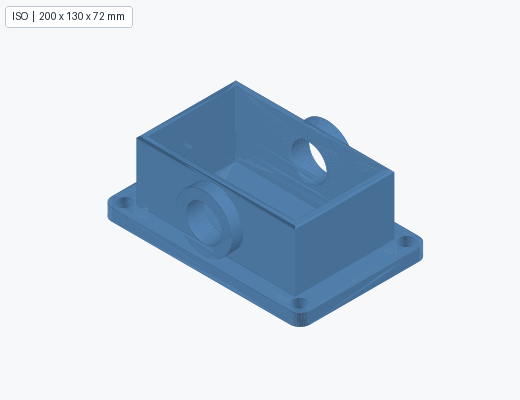
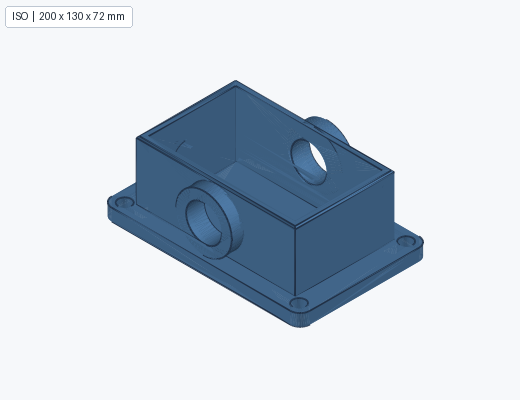
fix(v2.15): correct camera axis for edge culling + limb darkening
Visual QA after switching to a vision-capable model found the first v2.15
pass over-corrected: feature-edge ribbons were sub-pixel on big assemblies
(522 mm gearbox rims aliased into dashed ghosts) and back-facing rims still
bled through flat front plates.

Root cause of the bleed-through: _render_view used (camera_pos - center) as
the view direction for back-face culling and shading, but matplotlib places
the camera from the SAME elev/azim it hands view_init, where azim=0 is the
+X axis (not -Y as the nominal vector implied). Verified empirically with an
occlusion probe across three angles.

- view_dir now derived from elev/azim so culling and limb darkening use the
  real camera axis; far-side bearing rims are culled outright instead of
  relying on the toward-camera offset
- resolution-aware ribbon stroke (~1.7 px at image size) so rims read solid
- limb darkening: grazing surfaces (bore walls seen through the shaft/bore
  annular gap, cylinder silhouettes) darken to ambient, killing the dotted
  facet ring that abs() two-sided lighting painted on them
- edge bisector stored per feature edge (convex or concave outside normal)
- tests: +1 back-face cull test (402 total); regenerated hero + demo16 iso/
  views/sections with the corrected pipeline; before/after comparison added
  to README + landing; gitignore stray scratch artifacts

Changed region(s): [[0.1846, 0.18, 0.8308, 0.84]]

diff --git a/docs/index.html b/docs/index.html
@@ -803,7 +803,7 @@
     <!-- 状态徽章: 1 个小 chip, 不喧宾夺主 -->
     <div class="status-chip">
       <span class="pulse"></span>
-      <span class="v">v2.15</span> &nbsp;·&nbsp; 401 tests pass &nbsp;·&nbsp; AGPL-3.0
+      <span class="v">v2.15</span> &nbsp;·&nbsp; 402 tests pass &nbsp;·&nbsp; AGPL-3.0
     </div>
 
     <!-- 标题: 整句统一深海色, 弱化强调 -->
@@ -840,7 +840,7 @@
         <span class="v">34</span><span class="l">公开 op</span>
       </div>
       <div class="mini-stat">
-        <span class="v">401</span><span class="l">测试全过</span>
+        <span class="v">402</span><span class="l">测试全过</span>
       </div>
       <div class="mini-stat">
         <span class="v">v2.15</span><span class="l">3 端到端 demo</span>
@@ -1135,7 +1135,7 @@
         <div class="d">从草图到装配, 13 大类, LLM 可直接调用</div>
       </div>
       <div class="metric">
-        <div class="v">401<span class="small"> / 401</span></div>
+        <div class="v">402<span class="small"> / 402</span></div>
         <div class="l">测试 100% 通过</div>
         <div class="d">v1.0 → v2.15 全面覆盖, 含集成测试 + 几何验证</div>
       </div>
@@ -1192,7 +1192,7 @@
         前体视觉建模内核. <br/>AGPL-3.0-or-later · 工业自评 6.5/10.
       </p>
       <div class="badges">
-        <span class="badge"><span class="dot"></span> 401 tests passing</span>
+        <span class="badge"><span class="dot"></span> 402 tests passing</span>
         <span class="badge">build123d 0.11.1</span>
         <span class="badge">OCC 7.9.3</span>
       </div>

diff --git a/mech_kernel/renderer.py b/mech_kernel/renderer.py
@@ -62,7 +62,7 @@ class Renderer:
     # Groups above this triangle count skip the O(n) style analysis and fall
     # back to flat shading without edge lines (keeps huge meshes renderable).
     STYLE_BUDGET = 400_000
-    EDGE_RGB = (0.16, 0.22, 0.30, 0.55)
+    EDGE_RGB = (0.13, 0.19, 0.27, 0.78)
 
     def __init__(
         self,
@@ -642,9 +642,25 @@ class Renderer:
             ax.set_facecolor(self.background)
 
             effective_edges = show_edges or quality == "presentation" or self.show_edges
+            # The camera direction that actually matters for back-face culling
+            # and limb darkening is matplotlib's, derived from the SAME elev/azim
+            # we hand view_init — NOT the nominal camera_pos vector, whose axis
+            # mapping differs (azim=0 puts the camera on +X, not -Y). Using the
+            # wrong axis let far-side rims bleed through and darkened front faces.
+            dx, dy, dz = camera_pos[0] - cx, camera_pos[1] - cy, camera_pos[2] - cz
+            cam_norm = math.sqrt(dx * dx + dy * dy + dz * dz)
+            if cam_norm > 0:
+                elev_rad = math.asin(max(-1.0, min(1.0, dz / cam_norm)))
+                azim_rad = math.atan2(dx, -dy)
+            else:
+                elev_rad, azim_rad = 0.0, 0.0
+            cos_elev = math.cos(elev_rad)
+            view_dir = (cos_elev * math.cos(azim_rad),
+                        cos_elev * math.sin(azim_rad),
+                        math.sin(elev_rad))
             triangles = []
             triangle_colors = []
-            feature_edges: List[Tuple[tuple, tuple]] = []
+            feature_edges: List[Tuple[tuple, tuple, tuple]] = []
             groups = mesh_groups or [(vertices, faces, self.body_color, False)]
             styles = mesh_styles if mesh_styles is not None else [None] * len(groups)
             for (group_vertices, group_faces, group_color, highlighted), style in zip(groups, styles):
@@ -653,7 +669,7 @@ class Renderer:
                     group_triangles = style["triangles"]
                     triangles.extend(group_triangles)
                     triangle_colors.extend(
-                        self._triangle_colors(group_triangles, color, normals=style["normals"])
+                        self._triangle_colors(group_triangles, color, normals=style["normals"], view_dir=view_dir)
                     )
                     if effective_edges:
                         feature_edges.extend(style["edges"])
@@ -672,17 +688,20 @@ class Renderer:
                             except (IndexError, TypeError):
                                 continue
                     triangles.extend(group_triangles)
-                    triangle_colors.extend(self._triangle_colors(group_triangles, color))
+                    triangle_colors.extend(self._triangle_colors(group_triangles, color, view_dir=view_dir))
 
             if not triangles:
                 plt.close(fig)
                 return b""
 
             if effective_edges and feature_edges:
+                # Resolution-aware stroke: a fixed share of the part size made
+                # big assemblies (522 mm gearbox) draw sub-pixel rims that
+                # alias into dashed ghosts. Target ~1.7 px at this image size.
+                view_span = max((v * 1.18 for v in size), default=1.0)
+                mm_per_px = view_span / max(min(img_size), 1)
                 edge_triangles = self._edge_ribbons(
-                    feature_edges,
-                    (camera_pos[0] - cx, camera_pos[1] - cy, camera_pos[2] - cz),
-                    max(size) if size else 1.0,
+                    feature_edges, view_dir, max(mm_per_px * 1.05, 1e-4),
                 )
                 triangles.extend(edge_triangles)
                 triangle_colors.extend([self.EDGE_RGB] * len(edge_triangles))
@@ -709,13 +728,7 @@ class Renderer:
             ax.set_ylim(cy - half[1], cy + half[1])
             ax.set_zlim(cz - half[2], cz + half[2])
             
-            dx, dy, dz = camera_pos[0] - cx, camera_pos[1] - cy, camera_pos[2] - cz
-            norm = math.sqrt(dx*dx + dy*dy + dz*dz)
-            if norm > 0:
-                ax.view_init(
-                    elev=math.degrees(math.asin(dz / norm)),
-                    azim=math.degrees(math.atan2(dx, -dy)),
-                )
+            ax.view_init(elev=math.degrees(elev_rad), azim=math.degrees(azim_rad))
             
             ax.set_box_aspect((size[0] or 1, size[1] or 1, size[2] or 1))
             try:
@@ -741,11 +754,16 @@ class Renderer:
         triangles: List[List[Tuple[float, float, float]]],
         color: Optional[Tuple[float, float, float]] = None,
         normals: Optional[List[Tuple[float, float, float]]] = None,
+        view_dir: Optional[Tuple[float, float, float]] = None,
     ) -> List[Tuple[float, float, float, float]]:
         """Apply stable light shading without relying on matplotlib's version-specific shade API.
 
         ``normals`` supplies v2.15 crease-aware smooth normals; when absent the
-        flat per-triangle normal is used (legacy behaviour).
+        flat per-triangle normal is used (legacy behaviour). ``view_dir`` adds
+        limb darkening: surfaces seen at grazing angles (bore walls glimpsed
+        through the shaft/bore annular gap, cylinder silhouettes) darken toward
+        ambient instead of lighting up per-facet, so interiors read as uniform
+        shadow rather than a dotted ring of bright facets.
         """
         light = (-0.45, -0.55, 0.70)
         light_len = math.sqrt(sum(value * value for value in light)) or 1.0
@@ -763,6 +781,9 @@ class Renderer:
                     normal = (nx / normal_len, ny / normal_len, nz / normal_len)
                 illumination = abs(normal[0] * light[0] + normal[1] * light[1] + normal[2] * light[2])
                 factor = 0.58 + 0.42 * illumination
+                if view_dir is not None:
+                    facing = abs(normal[0] * view_dir[0] + normal[1] * view_dir[1] + normal[2] * view_dir[2])
+                    factor *= 0.55 + 0.45 * facing
             except (IndexError, TypeError, ValueError):
                 factor = 0.78
             colors.append(tuple(min(1.0, max(0.0, channel * factor)) for channel in body_color) + (1.0,))
@@ -770,25 +791,33 @@ class Renderer:
 
     @staticmethod
     def _edge_ribbons(
-        edges: List[Tuple[tuple, tuple]],
+        edges: List[Tuple[tuple, tuple, tuple]],
         view_vector: Tuple[float, float, float],
-        max_dim: float,
+        half_width: float,
     ) -> List[List[Tuple[float, float, float]]]:
-        """Expand feature edges into camera-facing ribbon quads.
+        """Expand visible feature edges into camera-facing ribbon quads.
 
         mplot3d paints each artist as one unit, so a Line3DCollection of edge
         lines would float over the front faces of the model (the old renderer
         hid this by drawing lines per facet *inside* the face collection at
         0.18pt). Ribbons join the same Poly3DCollection, where per-patch depth
-        sorting occludes back-side edges behind the body correctly.
+        sorting occludes them behind nearer geometry.
+
+        Each edge carries the bisector of its two adjacent face normals (the
+        "outside" direction of the crease, convex or concave). Edges whose
+        bisector faces away from the camera are culled outright: painter's
+        sorting alone let far-side rims bleed through flat front plates once
+        the toward-camera offset lifted them in front of the occluder.
         """
         vx, vy, vz = view_vector
         vlen = math.sqrt(vx * vx + vy * vy + vz * vz) or 1.0
         vx, vy, vz = vx / vlen, vy / vlen, vz / vlen
-        half_width = max(max_dim * 0.00035, 1e-4)
-        offset = max_dim * 0.0008
+        half_width = max(half_width, 1e-4)
+        offset = half_width * 2.0
         ribbons: List[List[Tuple[float, float, float]]] = []
-        for point_a, point_b in edges:
+        for point_a, point_b, bisector in edges:
+            if bisector[0] * vx + bisector[1] * vy + bisector[2] * vz <= 0.0:
+                continue  # back-facing crease: never visible here
             try:
                 ex = point_b[0] - point_a[0]
                 ey = point_b[1] - point_a[1]
@@ -862,17 +891,22 @@ class Renderer:
                         edge_faces[key] = (bucket, index)
                     else:
                         edge_faces[key] = None  # non-manifold: leave un-drawn
-            feature_edges: List[Tuple[tuple, tuple]] = []
+            feature_edges: List[Tuple[tuple, tuple, tuple]] = []
             for (u, w), bucket in edge_faces.items():
                 if bucket is None:
                     continue
                 if isinstance(bucket, int):
-                    keep = True  # real open boundary
+                    bisector = normals[bucket]  # open boundary: face normal
                 else:
                     n1, n2 = normals[bucket[0]], normals[bucket[1]]
-                    keep = n1[0] * n2[0] + n1[1] * n2[1] + n1[2] * n2[2] < sharp_cos
-                if keep:
-                    feature_edges.append((mverts[u], mverts[w]))
+                    if n1[0] * n2[0] + n1[1] * n2[1] + n1[2] * n2[2] >= sharp_cos:
+                        continue
+                    bisector = (n1[0] + n2[0], n1[1] + n2[1], n1[2] + n2[2])
+                blen = math.sqrt(bisector[0] ** 2 + bisector[1] ** 2 + bisector[2] ** 2)
+                if blen < 1e-9:
+                    continue  # 180 deg fold: no meaningful outside direction
+                feature_edges.append((mverts[u], mverts[w],
+                                      (bisector[0] / blen, bisector[1] / blen, bisector[2] / blen)))
 
             smooth = self._crease_normals(tris, normals, mverts)
             triangles = [[mverts[a], mverts[b], mverts[c]] for a, b, c in tris]

diff --git a/mech_kernel/tests/test_v15_renderer.py b/mech_kernel/tests/test_v15_renderer.py
@@ -51,7 +51,7 @@ def test_cylinder_band_has_no_facet_lines_only_rims():
     assert style is not None
     assert len(style["triangles"]) > 40
     assert style["edges"], "rims should still be drawn"
-    for pa, pb in style["edges"]:
+    for pa, pb, _bisector in style["edges"]:
         assert abs(pa[2] - pb[2]) < 1e-9, f"facet line leaked: {pa} -> {pb}"
     # ~53 facets per rim (linear cap governs here), definitely not thousands
     assert len(style["edges"]) < 400
@@ -78,10 +78,12 @@ def test_planar_grid_keeps_only_boundary_edges():
     expected_boundary = 4 * (n - 1)
     assert len(style["edges"]) == expected_boundary
     limit = float(n - 1)
-    for pa, pb in style["edges"]:
+    for pa, pb, _bisector in style["edges"]:
         on_boundary = (pa[0] in (0.0, limit) or pa[1] in (0.0, limit) or
                        pb[0] in (0.0, limit) or pb[1] in (0.0, limit))
         assert on_boundary, "interior diagonal leaked into feature edges"
+        # open boundary edges carry the face normal as bisector
+        assert abs(_bisector[2]) > 0.99
 
 
 def test_crease_normals_do_not_blur_box_corners():
@@ -96,9 +98,24 @@ def test_crease_normals_do_not_blur_box_corners():
 
 def test_edge_ribbons_orient_and_skip_parallel():
     r = Renderer()
-    ribbons = r._edge_ribbons([((0, 0, 0), (10, 0, 0))], (0, -100, 0), 100.0)
+    edge = ((0, 0, 0), (10, 0, 0), (0, -1, 0))  # bisector faces camera
+    ribbons = r._edge_ribbons([edge], (0, -100, 0), 0.5)
     assert len(ribbons) == 2  # one edge -> one ribbon -> two triangles
-    assert r._edge_ribbons([((0, 0, 0), (0, -10, 0))], (0, -100, 0), 100.0) == []
+    # ribbon sits at the requested width around the edge line (edge along x,
+    # view along -y -> the width axis is z)
+    zs = [p[2] for tri in ribbons for p in tri]
+    assert max(zs) - min(zs) == 1.0
+    parallel = ((0, 0, 0), (0, -10, 0), (0, -1, 0))
+    assert r._edge_ribbons([parallel], (0, -100, 0), 0.5) == []
+
+
+def test_backfacing_edges_are_culled():
+    """Far-side rims must not bleed through front plates (ghost circles)."""
+    r = Renderer()
+    edge = ((0, 0, 0), (10, 0, 0), (0, 1, 0))  # bisector points away from camera
+    assert r._edge_ribbons([edge], (0, -100, 0), 0.5) == []
+    # same edge seen from the other side is drawn
+    assert len(r._edge_ribbons([edge], (0, 100, 0), 0.5)) == 2
 
 
 # ---------- end-to-end render ----------

diff --git a/README.md b/README.md
@@ -8,7 +8,7 @@
   <a href="docs/mechkernel-harness-roadmap.md">Harness 路线图</a>
 </p>
 
-[![Tests](https://img.shields.io/badge/tests-401%2F401%20passing-brightgreen)]()
+[![Tests](https://img.shields.io/badge/tests-402%2F402%20passing-brightgreen)]()
 [![Python](https://img.shields.io/badge/python-3.12-blue)]()
 [![OCC](https://img.shields.io/badge/OCC-7.9.3-orange)]()
 [![License](https://img.shields.io/badge/license-AGPL--3.0--or--later-red)](LICENSE)
@@ -17,6 +17,10 @@
 ## 概述
 
 MechCAD Kernel 是 [Varen CAD](https://github.com/vanyu0710/aicad) 的**参数化 CAD 内核**。它让 LLM 通过**受控代码通道**（`run_script`，几何只能经内核门面调公开 op）逐步建模，端到端生成可制造的 CAD 几何，并支持多零件装配导出。
+
+**证据渲染质量 (v2.15)** — 同一装配，逐三角画边 → 只画特征边：
+
+![render before/after](docs/images/render-before-after.png)
 
 **核心能力 (v2.15)**：
 - **34 op 默认公开 + 10 装配 op experimental**（全部真实实现）— 能力集聚焦零件建模主线；v2.12 新增 `make_gear`（真渐开线齿轮坯公开 op）+ worker `reset` RPC；**v2.12.1 修复 make_gear 两处几何缺陷**（渐开线齿悬浮于毂盘、bore 参数反写致假孔），新增单实体/真通孔回归门
@@ -386,7 +390,7 @@ k.extrude("pocket", depth=5, mode="cut", reverse=True)     # 切进材料
 | **+ v2.12.1** | **2026-09-07** | **make_gear 几何修复: 渐开线齿延伸至齿根域（与毂盘融合为单实体）+ bore 半径/高修正（真实通孔）；新增 solids/通孔回归测试** | **377** | **34+10** |
 | **+ v2.13** | **2026-09-08** | **代码通道 run_script: ScriptKernel 门面 + AST 白名单沙箱 + 检查点回滚 + 原始 traceback 反馈 + query solid_count；脚本 op 可参数重放** | **384** | **34+10** |
 | **+ v2.14** | **2026-09-09** | **F2a 装配场景命令: export_assembly（XCAF 具名装配 STEP）+ assembly_interference（bbox 预过滤+豁免表）+ render_assembly（分件着色）；无状态，不动单几何契约** | **391** | **34+10** |
-| **+ v2.15** | **2026-09-11** | **渲染净化: OCP 角向细分+焊接水密网格, show_edges 只画特征边(二面角>30°), crease-aware 平滑法线, ribbon 边深度排序; 另修坏系统字体阻断 build123d 导入(fontTools 惰性校验过滤)** | **401** | **34+10** |
+| **+ v2.15** | **2026-09-11** | **渲染净化: OCP 角向细分+焊接水密网格, show_edges 只画特征边(二面角>30°), crease-aware 平滑法线, ribbon 边深度排序; 另修坏系统字体阻断 build123d 导入(fontTools 惰性校验过滤)** | **402** | **34+10** |
 
 ## 安装
 
